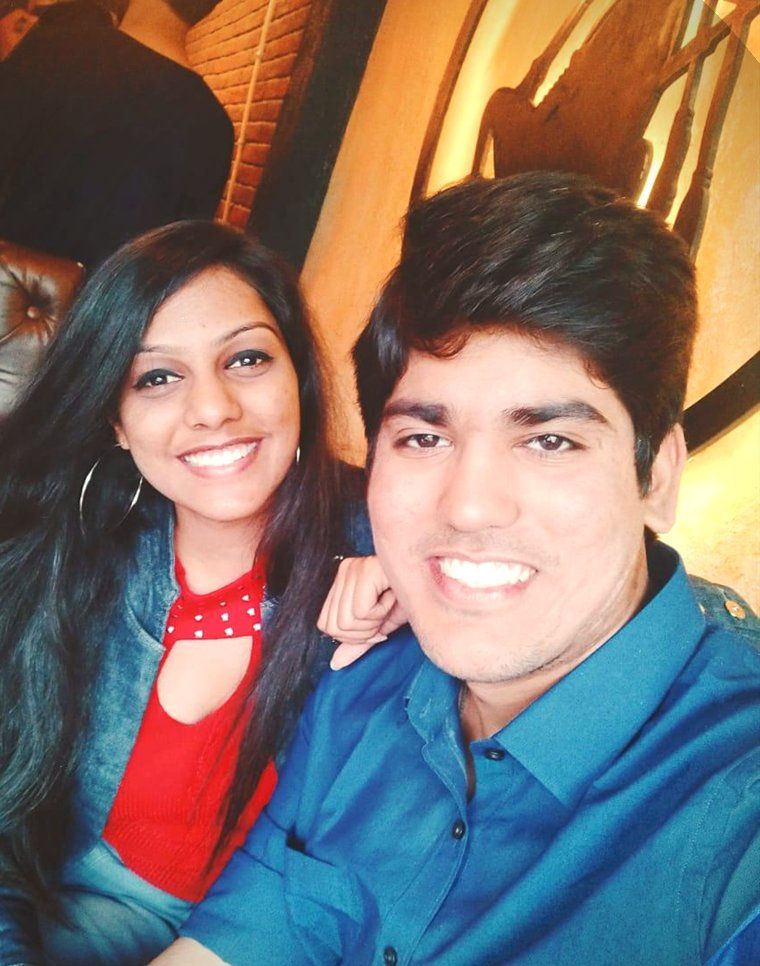
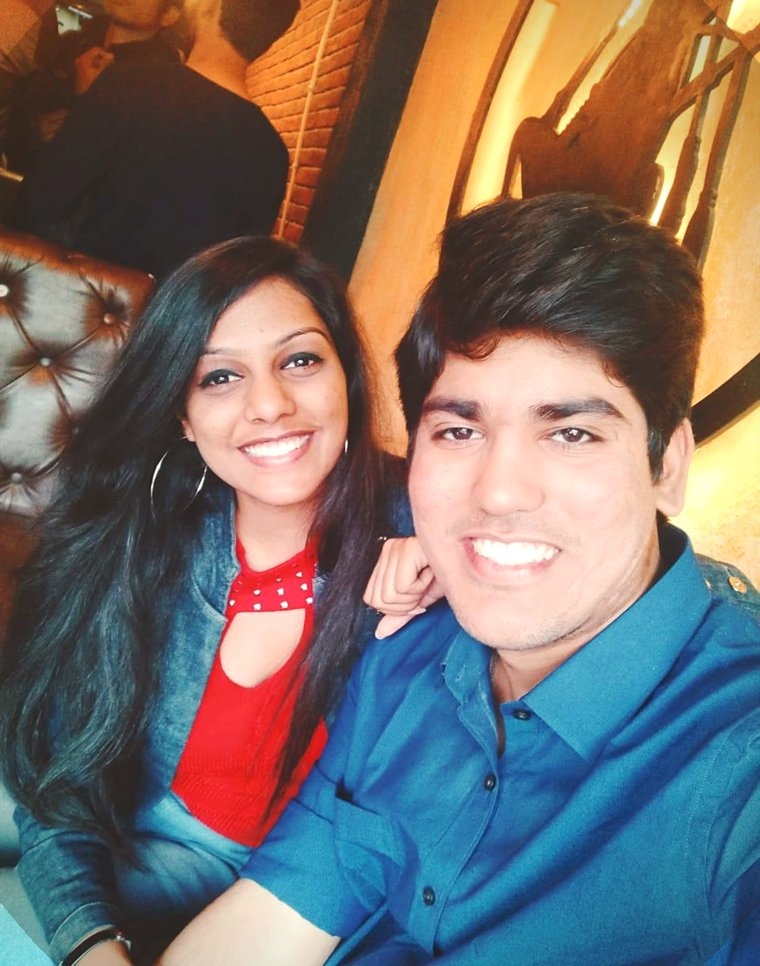
Slideshow photos: wider crops

diff --git a/app.js b/app.js
@@ -20,7 +20,7 @@ const WEDDING_DETAILS = {
   hashtag: "#Kartik_Got_Surprised",
   coupleNote: "Two childhood companions who found their forever in each other. Kartik is the calm, steady anchor who grounds their world, while Surbhi is the vibrant spark that keeps it bright. Built on deep trust, easy laughter, and quiet strength, their journey now leads to a celebration of love and togetherness. They are endlessly grateful to have you by their side as they honor cherished traditions, grace the dance floor, and begin this next chapter.",
   // Photos shown inside the blue frame (swap in your own pre-wedding photos)
-  couplePhotos: [1, 2, 3, 4, 5, 6].map((n) => `./assets/photos/couple-${n}.jpg`),
+  couplePhotos: [1, 2, 3, 4, 5, 6].map((n) => `./assets/photos/couple-${n}.jpg?v=2`), // ?v= makes browsers fetch re-edited photos
   weather: "Jim Corbett in mid-February is pleasantly cool — sunny days around 22-23°C and crisp evenings near 8-9°C. Light woollens are recommended after sundown.",
   parking: "[Parking arrangements at the venue.]",
   instagram: "", // e.g. "https://instagram.com/yourhandle" — if empty, opens the hashtag page

diff --git a/index.html b/index.html
@@ -15,7 +15,7 @@
        "gated" holds the page behind the opening screen until the guest taps it -->
   <script>document.documentElement.classList.add("js", /[?&]pdf\b/.test(location.search) ? "pdf" : "gated");</script>
   <!-- ?v= changes with each update, so browsers never keep an old copy -->
-  <link rel="stylesheet" href="./style.css?v=10">
+  <link rel="stylesheet" href="./style.css?v=11">
 </head>
 <body>
 
@@ -245,6 +245,6 @@
     </div>
   </footer>
 
-  <script src="./app.js?v=10"></script>
+  <script src="./app.js?v=11"></script>
 </body>
 </html>
